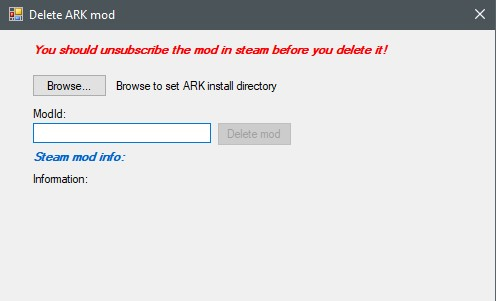
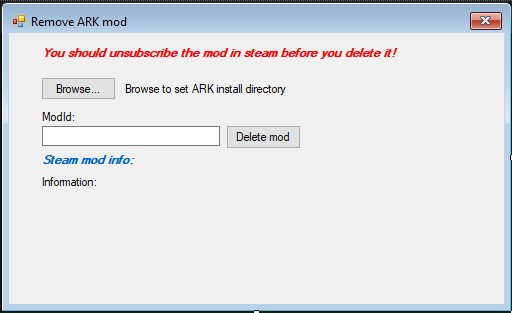
typo

diff --git a/RemoveArkMods/frmMain.Designer.cs b/RemoveArkMods/frmMain.Designer.cs
@@ -138,7 +138,7 @@
             this.MaximizeBox = false;
             this.MinimizeBox = false;
             this.Name = "frmMain";
-            this.Text = "Delete ARK mod";
+            this.Text = "Remove ARK mod";
             this.ResumeLayout(false);
             this.PerformLayout();
 

diff --git a/RemoveArkMods/frmMain.cs b/RemoveArkMods/frmMain.cs
@@ -20,7 +20,7 @@ namespace RemoveArkMods
             InitializeComponent();
             if (IsUserAdministrator())
             {
-                Text = @"Delete ARK mod (Administrator)";
+                Text = @"Remove ARK mod (Administrator)";
             }
         }
 
